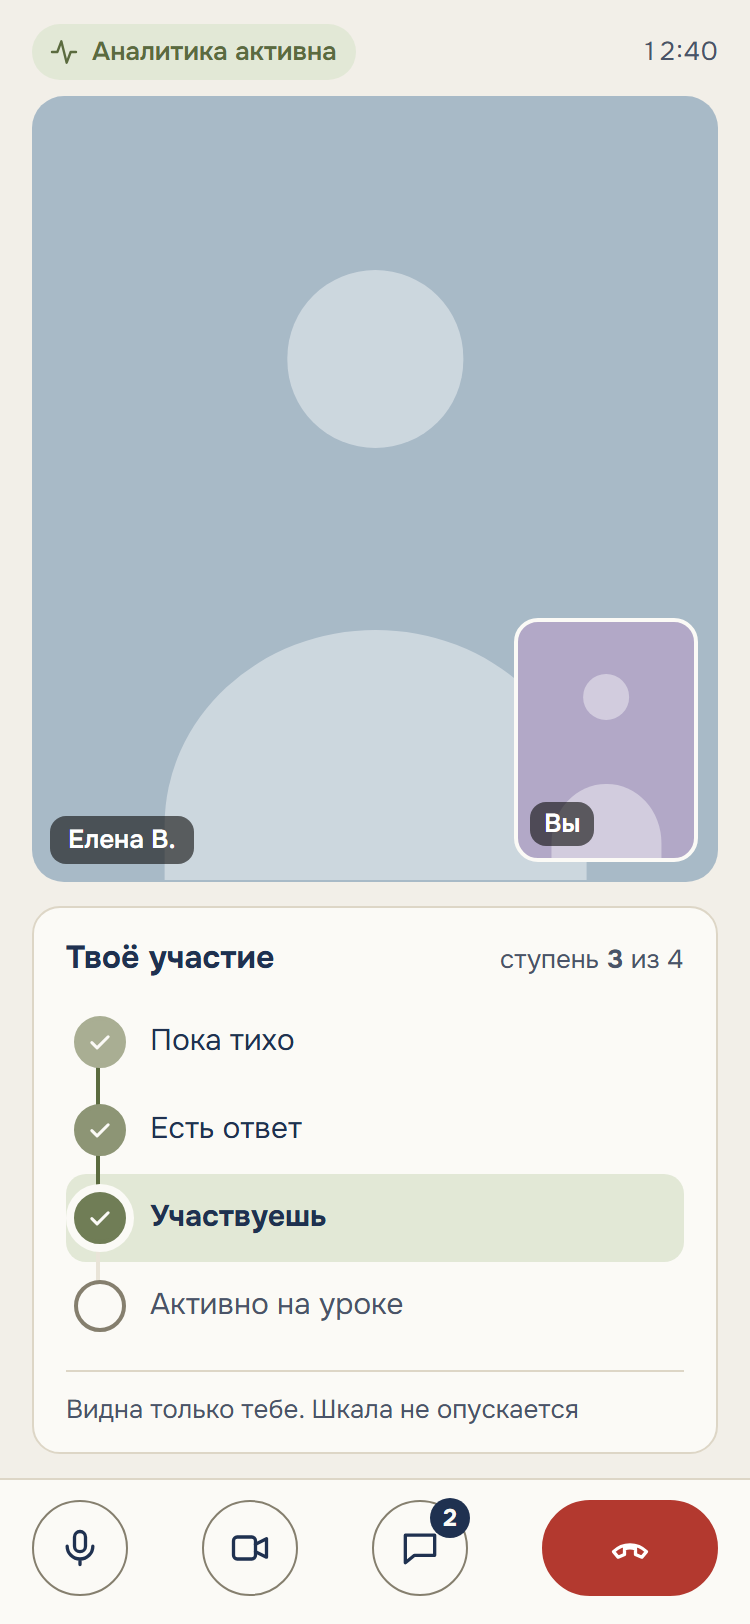
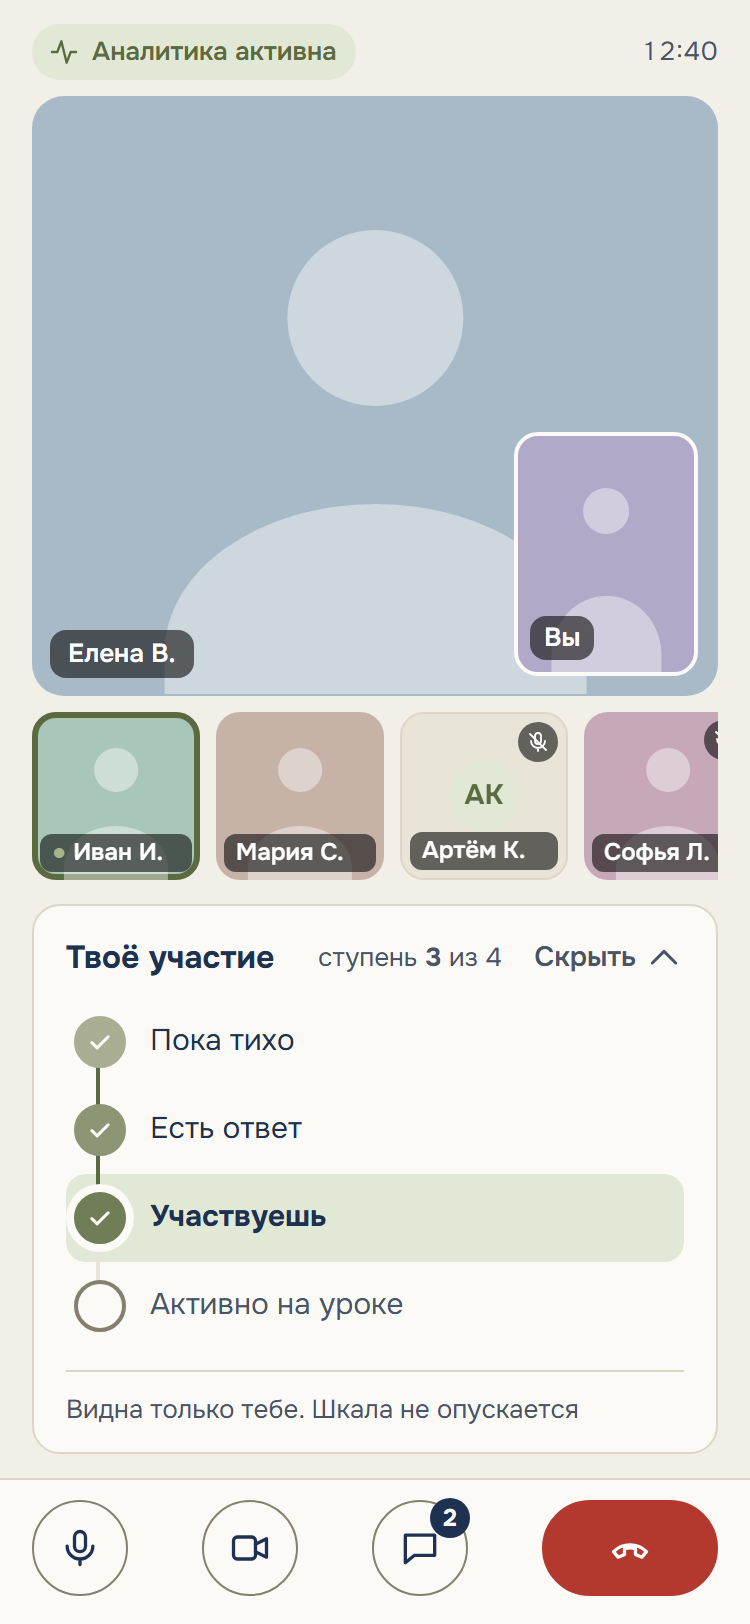
Экран ученика: одноклассники в звонке, аналитика выключена, один вариант (#8)

Changed region(s): [[0.0307, 0.2771, 0.9813, 0.6158], [0.368, 0.1232, 0.6133, 0.2771], [0.7667, 0.2771, 0.8587, 0.3387]]

diff --git a/design/student-call.html b/design/student-call.html
@@ -5,8 +5,9 @@
   <meta name="viewport" content="width=device-width, initial-scale=1">
   <title>Макет: звонок ученика</title>
   <!-- Макет экрана ученика в звонке (issue #8). Телефон, 375 px; на широком окне экран стоит по центру.
-       Состояния задаются в адресе: ?level=1…4 (ступень шкалы, по умолчанию 2), ?mic=0 (микрофон выключен).
-       Без адреса показаны все четыре ступени подряд: ?all=1.
+       Состояния задаются в адресе: ?level=1…4 (ступень шкалы, по умолчанию 2), ?mic=0 (микрофон выключен),
+       ?ana=off (аналитика выключена, шкалы нет), ?scale=hidden|shown (шкала скрыта или показана).
+       Все четыре ступени подряд: ?all=1.
        Прототип: нажатие на ступень выше текущей поднимает шкалу, на ступень ниже ничего не делает (шкала только растёт).
        Цвета и тени берём из токенов, своих значений здесь нет. Тёмная тема включается системной. -->
   <link rel="stylesheet" href="../webapp/css/tokens.css">
@@ -41,7 +42,7 @@
     .ana .i { width: 16px; height: 16px; }
     .timer { font-size: 13px; color: var(--ink-soft); font-variant-numeric: tabular-nums; }
 
-    /* Видео: учитель на весь блок, своя плитка в углу. Других учеников на экране нет */
+    /* Видео: учитель на весь блок, своя плитка в углу. Ниже лента одноклассников без шкал: говорящий обведён */
     .stage { position: relative; margin: 0 16px; flex: 1; min-height: 240px; }
     .tile {
       position: absolute; overflow: hidden; border-radius: 16px; border: 1px solid var(--line);
@@ -49,11 +50,11 @@
     }
     .tile.main { inset: 0; }
     .tile.me { right: 10px; bottom: 10px; width: 92px; height: 122px; border-radius: 12px; border: 2px solid var(--surface); }
-    .tile .person::before {
+    .person::before {
       content: ""; position: absolute; left: 50%; top: 22%; width: 26%; aspect-ratio: 1;
       transform: translateX(-50%); border-radius: 50%; background: var(--figure);
     }
-    .tile .person::after {
+    .person::after {
       content: ""; position: absolute; left: 50%; bottom: -18%; width: 62%; height: 50%;
       transform: translateX(-50%); border-radius: 50% 50% 0 0; background: var(--figure);
     }
@@ -69,10 +70,35 @@
     }
     .micoff .i { width: 14px; height: 14px; }
 
+    .strip { display: flex; gap: 8px; margin: 8px 16px 0; overflow-x: auto; scrollbar-width: none; flex: none; }
+    .strip::-webkit-scrollbar { display: none; }
+    .mini {
+      position: relative; flex: none; width: 84px; height: 84px; border-radius: 12px; overflow: hidden;
+      background: hsl(var(--h) 22% 72%); display: grid; place-items: center;
+    }
+    .mini.nocam { background: var(--surface-muted); border: 1px solid var(--line); }
+    .mini.speaking { outline: 3px solid var(--accent); outline-offset: -3px; }
+    .mini .avatar {
+      width: 36px; height: 36px; border-radius: 50%; background: var(--accent-tint); color: var(--accent);
+      display: grid; place-items: center; font-weight: 700; font-size: 14px;
+    }
+    .mini .name {
+      position: absolute; left: 4px; right: 4px; bottom: 4px; padding: 1px 6px; border-radius: 6px;
+      background: var(--scrim); color: var(--on-scrim); font-size: 12px; font-weight: 600; white-space: nowrap; overflow: hidden; text-overflow: ellipsis;
+    }
+    .mini.speaking .name::before { content: "● "; color: var(--accent-on-scrim); }
+    .mini .micoff { top: 4px; right: 4px; width: 20px; height: 20px; }
+    .mini .micoff .i { width: 12px; height: 12px; }
+
+    /* Аналитика выключена: индикатор нейтральный, шкалы нет */
+    .ana.off { background: var(--surface-muted); color: var(--ink-soft); }
+    .scale.off .scale-head { margin-bottom: 4px; }
+    .off-text { margin: 0; font-size: 14px; color: var(--ink-soft); }
+
     /* Своя шкала */
     .scale { margin: 12px 16px 12px; padding: 14px 16px 12px; border-radius: var(--radius); background: var(--surface); border: 1px solid var(--line); }
-    .scale-head { display: flex; align-items: baseline; justify-content: space-between; gap: 8px; margin-bottom: 8px; }
-    .scale-head h2 { margin: 0; font-size: 16px; }
+    .scale-head { display: flex; align-items: center; gap: 8px; margin-bottom: 8px; }
+    .scale-head h2 { flex: 1; margin: 0; font-size: 16px; }
     .scale-head .of { font-size: 13px; color: var(--ink-soft); font-variant-numeric: tabular-nums; }
 
     .steps { margin: 0; padding: 0; list-style: none; }
@@ -108,6 +134,19 @@
     .step.done button { color: var(--ink); }
     .step.now button { background: var(--accent-tint); color: var(--ink); font-weight: 700; }
     .step.now .mark { box-shadow: 0 0 0 4px var(--surface); }
+
+    /* Шкалу можно скрыть: остаётся строка с названием и кнопкой «Показать» */
+    .toggle {
+      display: inline-flex; align-items: center; gap: 4px; min-height: 44px; margin: -10px -8px -10px 0; padding: 0 8px;
+      border-radius: 10px; font-size: 14px; font-weight: 600; color: var(--ink-soft);
+    }
+    .toggle .i { width: 20px; height: 20px; transition: transform .3s; }
+    .scale.collapsed .toggle .i { transform: rotate(180deg); }
+    .fold { display: grid; grid-template-rows: 1fr; transition: grid-template-rows .35s; }
+    .fold > div { overflow: hidden; min-height: 0; }
+    .scale.collapsed .fold { grid-template-rows: 0fr; }
+    .scale.collapsed .scale-head { margin-bottom: 0; }
+    .scale.collapsed .fold > div { visibility: hidden; transition: visibility 0s .35s; }
 
     .scale-note { margin: 10px 0 0; padding-top: 10px; border-top: 1px solid var(--line); font-size: 13px; color: var(--ink-soft); }
 
@@ -145,6 +184,7 @@
     <symbol id="chat" viewBox="0 0 24 24"><path d="M4 5h16v11H9l-5 4z"/></symbol>
     <symbol id="leave" viewBox="0 0 24 24"><path d="M3 14c5-5 13-5 18 0l-2.5 3-3.5-1.5v-3c-2-.7-4-.7-6 0v3L5.500 17z"/></symbol>
     <symbol id="pulse" viewBox="0 0 24 24"><path d="M3 12h4l3-8 4 16 3-8h4"/></symbol>
+    <symbol id="pulse-off" viewBox="0 0 24 24"><path d="M3 12h4l3-8 4 16 3-8h4M4 4l16 16"/></symbol>
     <symbol id="check" viewBox="0 0 24 24"><path d="M5 12.5l4.5 4.5L19 7.5"/></symbol>
   </svg>
 
@@ -155,6 +195,17 @@
     const LABELS = ["Пока тихо", "Есть ответ", "Участвуешь", "Активно на уроке"];
     const micOn = P.get("mic") !== "0";
     const all = P.get("all") === "1";
+    const anaOff = P.get("ana") === "off";
+    const PEOPLE = [
+      { name: "Иван И.", h: 150, cam: 1, mic: 1, speaking: 1 },
+      { name: "Мария С.", h: 20, cam: 1, mic: 1 },
+      { name: "Артём К.", cam: 0, mic: 0 },
+      { name: "Софья Л.", h: 330, cam: 1, mic: 0 },
+      { name: "Алиса Н.", cam: 0, mic: 1 },
+    ];
+    let hiddenSaved = false;
+    try { hiddenSaved = localStorage.getItem("scaleHidden") === "1"; } catch {}
+    const hiddenWanted = P.get("scale") ? P.get("scale") === "hidden" : hiddenSaved;
     const NOTE = "Видна только тебе. Шкала не опускается";
     const icon = (id) => `<svg class="i"><use href="#${id}"/></svg>`;
 
@@ -167,10 +218,33 @@
       }).join("");
     }
 
-    function screenHTML(level) {
+    const initials = (n) => n.split(" ").map((w) => w[0]).join("").slice(0, 2).toUpperCase();
+    function miniHTML(p) {
+      const body = p.cam ? `<span class="person"></span>` : `<span class="avatar">${initials(p.name)}</span>`;
+      return `<div class="mini ${p.cam ? "" : "nocam"} ${p.speaking ? "speaking" : ""}" style="--h:${p.h || 0}" aria-label="${p.speaking ? "Говорит: " : ""}${p.name}">
+        ${body}${p.mic ? "" : `<span class="micoff">${icon("mic-off")}</span>`}<span class="name">${p.name}</span></div>`;
+    }
+
+    function scaleHTML(level, idx) {
+      if (anaOff) return `<div class="scale off"><div class="scale-head"><h2>Твоё участие</h2></div>
+        <p class="off-text">Аналитика выключена. Шкала не ведётся.</p></div>`;
+      return `<div class="scale ${hiddenWanted ? "collapsed" : ""}">
+          <div class="scale-head"><h2>Твоё участие</h2><span class="of">ступень <b class="cur">${level}</b> из 4</span>
+            <button type="button" class="toggle" aria-expanded="${!hiddenWanted}" aria-controls="fold${idx}">
+              <span class="toggle-text">${hiddenWanted ? "Показать" : "Скрыть"}</span><svg class="i" viewBox="0 0 24 24" aria-hidden="true"><path d="M5 15l7-7 7 7"/></svg></button></div>
+          <div class="fold" id="fold${idx}"><div>
+            <ol class="steps">${stepsHTML(level)}</ol>
+            <p class="scale-note">${NOTE}</p>
+          </div></div>
+          <p class="sr" aria-live="polite" role="status"></p>
+        </div>`;
+    }
+
+    function screenHTML(level, idx) {
       return `<section class="screen" data-level="${level}" aria-label="Звонок, экран ученика">
         <div class="top">
-          <span class="ana" title="Аналитика активна">${icon("pulse")}Аналитика активна</span>
+          ${anaOff ? `<span class="ana off" title="Аналитика выключена">${icon("pulse-off")}Аналитика выключена</span>`
+                   : `<span class="ana" title="Аналитика активна">${icon("pulse")}Аналитика активна</span>`}
           <span class="timer">12:40</span>
         </div>
         <div class="stage">
@@ -178,12 +252,8 @@
           <div class="tile me" style="--h:260"><span class="person"></span>
             ${micOn ? "" : `<span class="micoff">${icon("mic-off")}</span>`}<span class="name">Вы</span></div>
         </div>
-        <div class="scale">
-          <div class="scale-head"><h2>Твоё участие</h2><span class="of">ступень <b class="cur">${level}</b> из 4</span></div>
-          <ol class="steps">${stepsHTML(level)}</ol>
-          <p class="scale-note">${NOTE}</p>
-          <p class="sr" aria-live="polite" role="status"></p>
-        </div>
+        <div class="strip" aria-label="Одноклассники в звонке">${PEOPLE.map(miniHTML).join("")}</div>
+        ${scaleHTML(level, idx)}
         <footer class="controls">
           <button class="cbtn ${micOn ? "" : "off"}" aria-label="${micOn ? "Выключить микрофон" : "Включить микрофон"}">${icon(micOn ? "mic" : "mic-off")}</button>
           <button class="cbtn" aria-label="Выключить камеру">${icon("cam")}</button>
@@ -197,8 +267,16 @@
     const page = document.getElementById("page");
     page.classList.toggle("single", !all);
     page.innerHTML = `<h1>Экран ученика в звонке</h1>
-      <p class="lead">Телефон, 375 px. Ученик видит только свою шкалу: чужих шкал и мест в рейтинге на экране нет, шкала только растёт.</p>
-      <div class="gallery">${levels.map((l) => `<div class="item"><h2>Ступень ${l}: ${LABELS[l - 1]}</h2>${screenHTML(l)}</div>`).join("")}</div>`;
+      <p class="lead">Телефон, 375 px. Ученик видит одноклассников в звонке, но только свою шкалу: чужих шкал и мест в рейтинге на экране нет, шкала только растёт.</p>
+      <div class="gallery">${levels.map((l, i) => `<div class="item"><h2>${anaOff ? "Аналитика выключена" : `Ступень ${l}: ${LABELS[l - 1]}`}</h2>${screenHTML(l, i)}</div>`).join("")}</div>`;
+
+    // Скрыть и показать шкалу: выбор помним на устройстве
+    document.querySelectorAll(".toggle").forEach((btn) => btn.addEventListener("click", () => {
+      const c = btn.closest(".scale").classList.toggle("collapsed");
+      btn.setAttribute("aria-expanded", !c);
+      btn.querySelector(".toggle-text").textContent = c ? "Показать" : "Скрыть";
+      try { localStorage.setItem("scaleHidden", c ? "1" : "0"); } catch {}
+    }));
 
     // Прототип: нажатие на ступень выше текущей поднимает шкалу, ниже — ничего не меняет
     document.querySelectorAll(".screen").forEach((screen) => {

diff --git a/design/README.md b/design/README.md
@@ -49,15 +49,18 @@
   | «Участвуешь» | `?level=3` | `m-l3`, `m-l3-dark` |
   | «Активно на уроке» | `?level=4` | `m-l4` |
   | Микрофон выключен | `?level=2&mic=0` | `m-muted` |
+  | Шкала скрыта | `?level=3&scale=hidden` | `m-hidden` |
+  | Аналитика выключена | `?ana=off` | `m-ana-off`, `m-ana-off-dark` |
 
   Как работает экран:
-  - Сверху индикатор «Аналитика активна», он виден весь урок. Ниже учитель на весь блок и своя плитка «Вы»; других учеников и их шкал на экране нет.
-  - Своя шкала «Твоё участие»: четыре ступени списком, достигнутые заполнены оттенками одного зелёного (чем выше, тем насыщеннее), текущая выделена фоном и жирным, следующие пустые. Красного и серой «ямы» нет: «Пока тихо» уже заполнена, а не пустая.
+  - Сверху индикатор «Аналитика активна», он виден весь урок. Ниже учитель на весь блок и своя плитка «Вы».
+  - Под видео лента одноклассников: плитки с именами, у говорящего зелёная обводка и точка перед именем, у выключенного микрофона значок. Лента листается вбок. Шкал и мест в рейтинге у одноклассников нет.
+  - Своя шкала «Твоё участие»: четыре ступени списком, достигнутые заполнены оттенками одного зелёного (чем выше, тем насыщеннее), текущая выделена фоном и жирным, следующие пустые.
   - Подпись под шкалой: «Видна только тебе. Шкала не опускается». Без похвалы и упрёков.
+  - Шкалу скрывает и возвращает кнопка «Скрыть» / «Показать» в её шапке. Остаётся строка «Твоё участие · ступень N из 4», видео занимает освободившееся место, выбор запоминается на устройстве. `?scale=hidden|shown` перекрывает запомненное.
+  - Аналитика выключена: индикатор серый «Аналитика выключена», вместо шкалы текст «Аналитика выключена. Шкала не ведётся.» Кнопки «Скрыть» нет.
   - Прототип: нажатие на ступень выше текущей поднимает шкалу, на ступень ниже ничего не меняет. Смена ступени объявляется скринридеру («Ступень: …»).
   - Нижняя полоса: микрофон, камера, чат, выход.
-
-- `student-call-alt.html` — второй вариант экрана ученика (issue #8) на палитре из задания: синий `#0B1E36`, светлый беж `#EFEBE5` (был `#C5BAAF`, по просьбе осветлён), зелёный `#556050`, красный `#A54A4A`, шрифт Inter / системный. Палитра задана прямо в файле, не в `tokens.css`. Адреса: `?level=1…4`, `?scale=hidden` (шкала скрыта, остаётся строка «Твоё участие · Показать»), экспорт `screens/student-call-alt-m-l1…l4.png` и `m-l3-hidden.png`. Тема переключается кнопкой с луной и солнцем в правом верхнем углу; выбор запоминается на устройстве, без выбора берётся системная, адрес `?theme=dark|light` перекрывает всё. Светлая: беж `#EFEBE5`, синие трансляция и нижняя панель. Тёмная: фон `#07121F`, синий `#0B1E36` для трансляции и панели, текст и заполненные ступени цвета беж, зелёная точка светлее (`#8DA086`), иначе она тонет. Экспорт тёмной темы: файлы с суффиксом `-dark` (`m-l1…l4-dark`, `m-l3-hidden-dark`). Шкалу скрывает и возвращает кнопка «Скрыть» / «Показать» в её шапке, выбор запоминается на устройстве; видео при этом занимает освободившееся место. Шкала из четырёх отрезков: достигнутые синие, остальные полупрозрачные; внизу панель синего цвета: микрофон, камера, «Поднять руку», выход.
 
 - `bot-registration.html` — переписка с ботом: регистрация и управление классом. Тексты и кнопки прошли ru-text, Фёдор переносит их в бота как есть, включая неразрывные пробелы (`&nbsp;` в разметке). Без адреса показаны все шаги, один шаг — `?step=1…14`. Рядом с каждым шагом заметка: когда приходит сообщение и что делает кнопка.
 
@@ -78,7 +81,7 @@
   | 13 | `?step=13` | Знакомый ученик пишет боту: класс и «Выйти из класса» |
   | 14 | `?step=14` | Старая ссылка или ссылка удалённого класса |
 
-- `bot-summary.html` — сообщения бота после урока (issue #15): сводка учителю и карточка ученика. Телефон 375 px, палитра из второго варианта экрана ученика (`student-call-alt.html`), но фон светлый молочный `#FBF8F0`, а шапка, кнопки и свои сообщения пастельного оливкового `#C8D2AA` / `#E1E7CE`; цвета заданы прямо в файле; тема системная, `?theme=dark|light` перекрывает. Без адреса показаны все сцены, одна сцена — `?scene=1…9`, без рамки для экспорта — `&bare=1`. Тексты прошли ru-text, неразрывные пробелы (`&nbsp;`) переносятся в бота как есть. Форматирование в MAX ограничено, поэтому в тексте только жирные названия блоков и пустая строка между блоками: ни таблиц, ни заголовков, ни цвета, ни эмодзи. Экспорт: `screens/bot-summary-m-*.png` (@2x), тёмная тема у сцен 1, 4 и 5 с суффиксом `-dark`.
+- `bot-summary.html` — сообщения бота после урока (issue #15): сводка учителю и карточка ученика. Телефон 375 px, палитра второго варианта экрана ученика (его файл `student-call-alt.html` убран из репозитория в #52), но фон светлый молочный `#FBF8F0`, а шапка, кнопки и свои сообщения пастельного оливкового `#C8D2AA` / `#E1E7CE`; цвета заданы прямо в файле; тема системная, `?theme=dark|light` перекрывает. Без адреса показаны все сцены, одна сцена — `?scene=1…9`, без рамки для экспорта — `&bare=1`. Тексты прошли ru-text, неразрывные пробелы (`&nbsp;`) переносятся в бота как есть. Форматирование в MAX ограничено, поэтому в тексте только жирные названия блоков и пустая строка между блоками: ни таблиц, ни заголовков, ни цвета, ни эмодзи. Экспорт: `screens/bot-summary-m-*.png` (@2x), тёмная тема у сцен 1, 4 и 5 с суффиксом `-dark`.
 
   | Сцена | Адрес после `bot-summary.html` | Что показано | Файл |
   |---|---|---|---|
